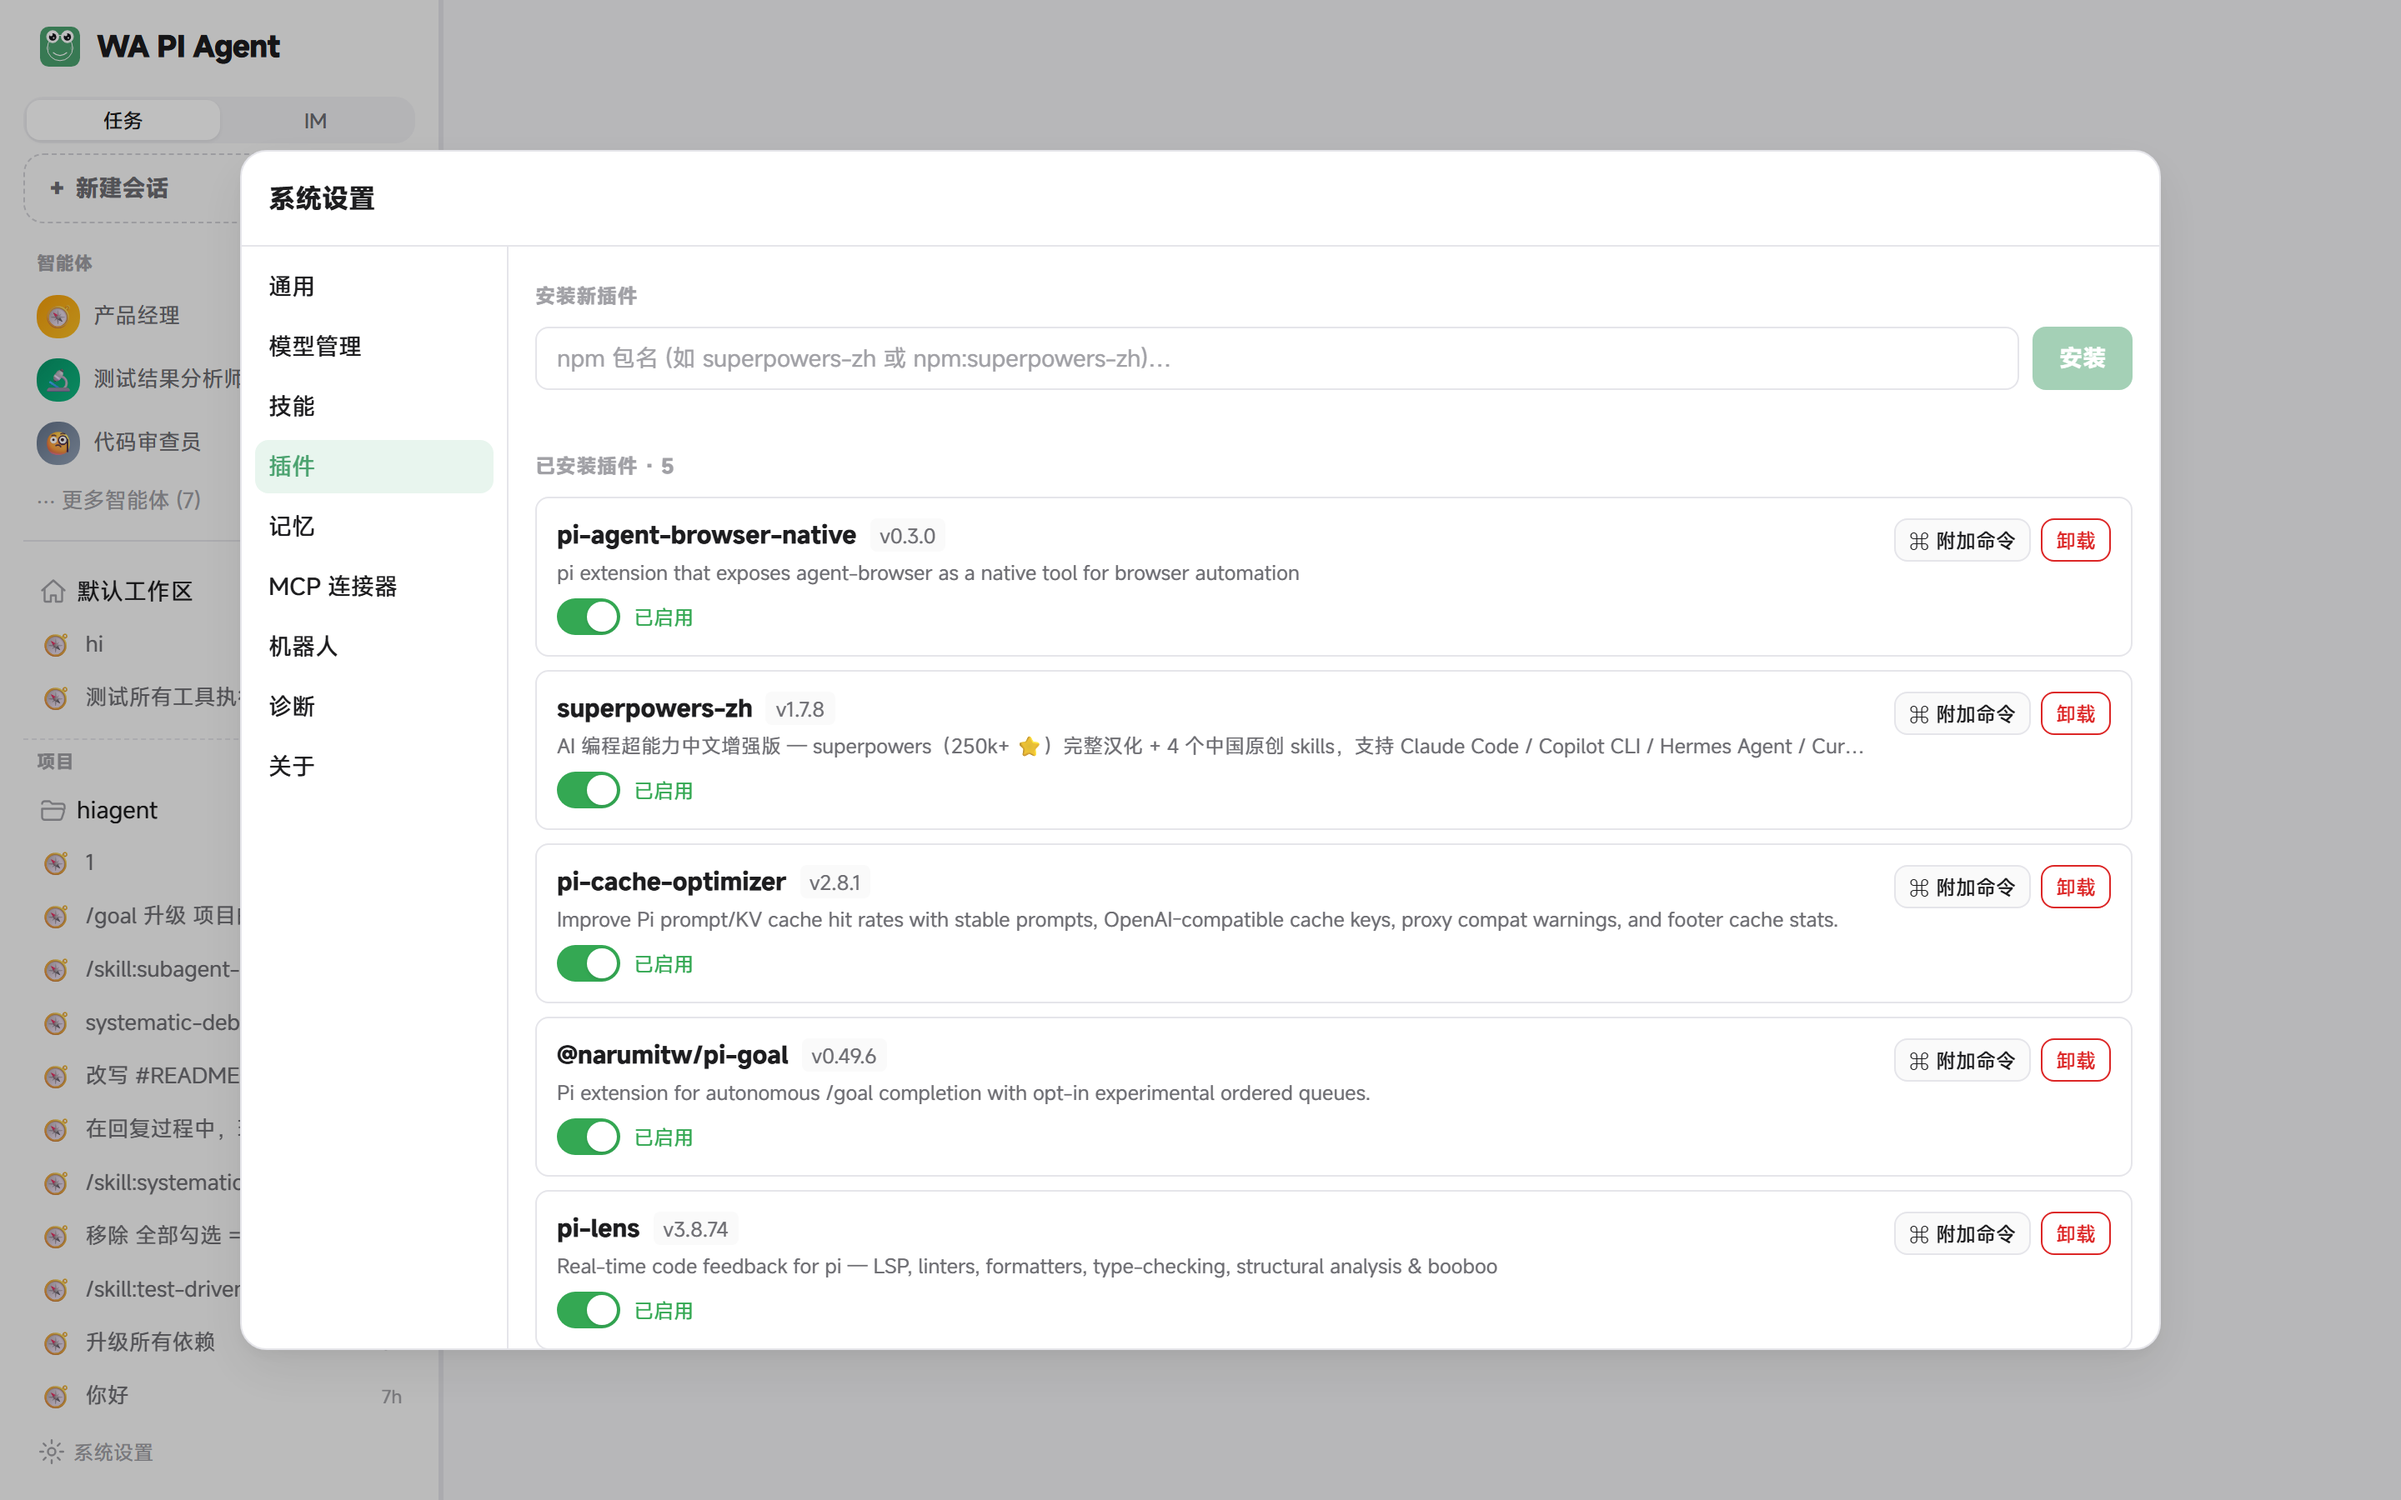
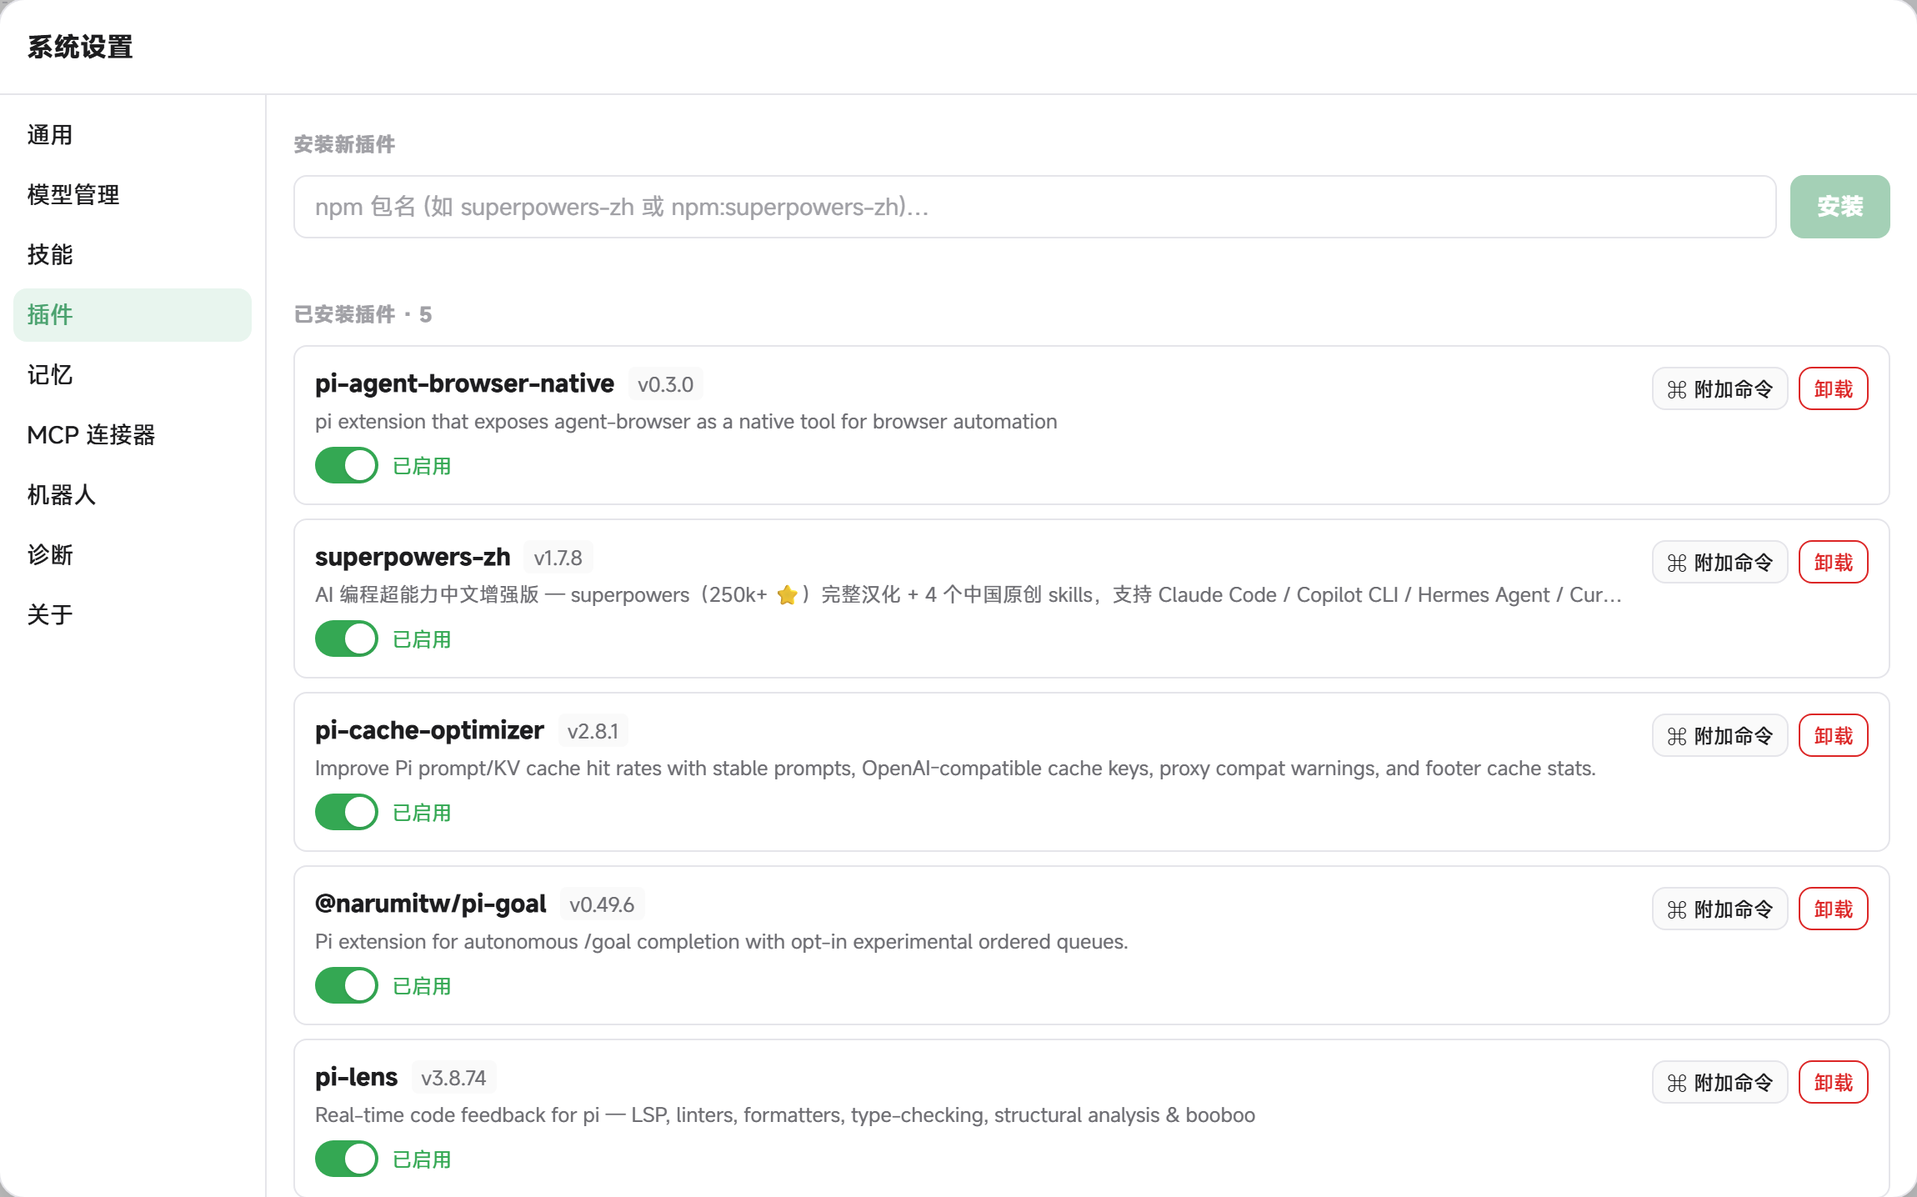
fix(docs,website): README 插件截图移除泄露的会话列表/项目名 + 官网补齐 TUI 插件兼容并发布
- docs/assets/readme/readme-extensions.png：原图是真实应用截图，左侧栏含本机会话标题列表与项目名 hiagent（公共仓库可见）；按像素探测设置对话框包围盒（290,182-2590,1618）裁切，2880x1800 -> 2300x1436，侧栏与窗口框架整体移除
- website/index.html / index.en.html：首屏 eyebrow 改品类句、信任行加 TUI 插件兼容、特性区新增 TUI 卡片、设置一览插件卡加 TUI 条目、meta description 同步；已 publish-web 发布到 www.wapiagent.top
- scripts/__tests__/website-tui-support.test.ts（新）：13 例先红后绿（改前 10 fail -> 改后 13 pass），含两条反向断言
- 不改应用代码；无行为变更

注：工作区另有 MessageList/TurnSummary/i18n 等改动来自其他会话，未纳入本次提交。

diff --git a/scripts/__tests__/website-tui-support.test.ts b/scripts/__tests__/website-tui-support.test.ts
@@ -1,0 +1,125 @@
+/**
+ * 官网双版「TUI 插件兼容与支持」落点测试。
+ *
+ * 与 README 的 readme-tui-support.test.ts 同口径：官网也要把 TUI 插件兼容讲到
+ * 首屏（eyebrow 品类句 + hero 信任行）与特性 / 设置区，并同步更新定位句
+ * （pi coding agent 的桌面 GUI 客户端，取代旧的「pi agent 图形化桌面框架」）。
+ * 先红后绿：先在当前（改造前）官网文件上跑，再改 website/index.html 与
+ * website/index.en.html 让全部用例通过。
+ */
+import { describe, expect, test } from "bun:test";
+import { readFileSync } from "node:fs";
+import { join } from "node:path";
+
+const root = join(import.meta.dir, "../..");
+const zh = readFileSync(join(root, "website/index.html"), "utf8");
+const en = readFileSync(join(root, "website/index.en.html"), "utf8");
+
+/** 取首屏 eyebrow 文案 */
+function eyebrow(doc: string): string {
+	return doc.match(/<span class="eyebrow"[\s\S]*?<\/span>/)?.[0] ?? "";
+}
+
+/** 取首屏信任行 */
+function heroTrust(doc: string): string {
+	return doc.match(/<div class="hero-trust">[\s\S]*?<\/div>/)?.[0] ?? "";
+}
+
+/** 取特性区正文（features 到 settings 之间） */
+function features(doc: string): string {
+	const start = doc.indexOf('id="features"');
+	const end = doc.indexOf('id="settings"');
+	return start === -1 || end === -1 ? "" : doc.slice(start, end);
+}
+
+/** 取页面 meta description */
+function metaDescription(doc: string): string {
+	return doc.match(/name="description"[\s\S]*?content="([^"]*)"/)?.[1] ?? "";
+}
+
+/** 取设置一览里「插件」卡片正文 */
+function pluginCard(doc: string, heading: string): string {
+	const start = doc.indexOf(`<h4><span class="ico">🧩</span>${heading}</h4>`);
+	if (start === -1) return "";
+	const end = doc.indexOf("</ul>", start);
+	return end === -1 ? "" : doc.slice(start, end);
+}
+
+describe("官网中文版 TUI 插件兼容落点", () => {
+	test("① 首屏 eyebrow 改用品类句（pi coding agent 的桌面 GUI 客户端）", () => {
+		expect(eyebrow(zh)).toContain("pi coding agent 的桌面 GUI 客户端");
+	});
+
+	test("② 首屏信任行含 TUI 插件兼容", () => {
+		expect(heroTrust(zh)).toContain("TUI 插件兼容");
+	});
+
+	test("③ 特性区含 TUI 插件开箱即用卡片", () => {
+		const f = features(zh);
+		expect(f).toContain("TUI 插件开箱即用");
+		expect(f).toContain("无需修改");
+	});
+
+	test("④ 设置一览「插件」卡含 TUI 插件兼容条目", () => {
+		const card = pluginCard(zh, "插件");
+		expect(card).toContain("TUI");
+		expect(card).toContain("无需修改");
+	});
+
+	test("⑤ 页面 meta description 更新为品类句并含 TUI 插件", () => {
+		const meta = metaDescription(zh);
+		expect(meta).toContain("pi coding agent 的桌面 GUI 客户端");
+		expect(meta).toContain("TUI 插件");
+	});
+});
+
+describe("官网英文版 TUI 插件兼容落点", () => {
+	test("① 首屏 eyebrow 改用品类句（desktop GUI client for the pi coding agent）", () => {
+		expect(eyebrow(en)).toContain("Desktop GUI client for the pi coding agent");
+	});
+
+	test("② 首屏信任行含 TUI plugin compatible", () => {
+		expect(heroTrust(en)).toContain("TUI plugin compatible");
+	});
+
+	test("③ 特性区含 TUI plugins work out of the box 卡片", () => {
+		const f = features(en);
+		expect(f).toContain("TUI plugins work out of the box");
+		expect(f).toContain("unchanged");
+	});
+
+	test("④ 设置一览「Plugins」卡含 TUI plugin compatible 条目", () => {
+		const card = pluginCard(en, "Plugins");
+		expect(card).toMatch(/TUI/);
+		expect(card).toContain("unchanged");
+	});
+
+	test("⑤ 页面 meta description 更新为品类句并含 TUI plugins", () => {
+		const meta = metaDescription(en);
+		expect(meta).toContain("desktop GUI client for the pi coding agent");
+		expect(meta).toContain("TUI plugins");
+	});
+});
+
+describe("官网双版一致性与不倒退（反向断言）", () => {
+	test("反向：不得残留旧定位句（图形化桌面框架 / Graphical desktop framework）", () => {
+		expect(zh).not.toContain("pi agent 图形化桌面框架");
+		expect(en).not.toContain("Graphical desktop framework for pi agent");
+	});
+
+	test("反向：不得把 TUI 插件写成不支持", () => {
+		for (const doc of [zh, en]) {
+			expect(doc).not.toContain("TUI 插件不支持");
+			expect(doc).not.toMatch(/TUI plugins? (?:are )?not supported/i);
+		}
+	});
+
+	test("双版首屏与特性/设置区落点数量一致", () => {
+		const hit = (doc: string, heading: string): number =>
+			[eyebrow(doc), heroTrust(doc), features(doc), pluginCard(doc, heading), metaDescription(doc)].filter(
+				(part) => /TUI/i.test(part),
+			).length;
+		expect(hit(zh, "插件")).toBe(4);
+		expect(hit(en, "Plugins")).toBe(4);
+	});
+});

diff --git a/website/index.html b/website/index.html
@@ -6,7 +6,7 @@
 		<title>WA PI Agent — 会呱呱叫的 AI 编程桌面助手</title>
 		<meta
 			name="description"
-			content="WA PI Agent：pi agent 引擎的图形化桌面框架。会话、模型、MCP、技能、记忆，一条命令都不用记，点点鼠标全搞定。任务完成时，还有一只青蛙跳出来道贺。"
+			content="WA PI Agent 是 pi coding agent 的桌面 GUI 客户端：会话、模型、MCP、技能、记忆一条命令都不用记，TUI 插件无需修改即可运行。任务完成时，还有一只青蛙跳出来道贺。"
 		/>
 		<link
 			rel="icon"
@@ -1028,7 +1028,7 @@
 			<span class="fly" style="left: 66%; top: 78%; animation-delay: 3.4s"></span>
 			<div class="hero-inner">
 				<div>
-					<span class="eyebrow">🐸 pi agent 图形化桌面框架 · 免费开源</span>
+					<span class="eyebrow">🐸 pi coding agent 的桌面 GUI 客户端 · 免费开源</span>
 					<h1>
 						会话、模型、MCP、技能<br />一条命令都<span class="hl">不用记</span>
 					</h1>
@@ -1055,6 +1055,7 @@
 					</div>
 					<div class="hero-trust">
 						<span>🛡 数据保存在本地</span>
+						<span>🧩 TUI 插件兼容</span>
 						<span>💻 Windows · macOS · Linux</span>
 						<span>🌐 中文 / English</span>
 					</div>
@@ -1547,6 +1548,11 @@
 						<p>stdio / HTTP 双传输，连接测试、查看工具清单，报错说人话不甩堆栈。</p>
 					</div>
 					<div class="mini-card reveal">
+						<div class="ico">🧩</div>
+						<h4>TUI 插件开箱即用</h4>
+						<p>为 pi 编写的扩展无需修改——状态栏 / Widget / 对话框 / 通知以 GUI 原生组件呈现。</p>
+					</div>
+					<div class="mini-card reveal">
 						<div class="ico">💲</div>
 						<h4>技能即打即用</h4>
 						<p>
@@ -1663,6 +1669,7 @@
 							<li>新版本徽章提示，一键升级</li>
 							<li>升级过程流式日志实时可见</li>
 							<li>附加命令逐项开关</li>
+							<li>TUI 插件兼容：为 pi 编写的扩展无需修改</li>
 							<li>安装 / 卸载 / 升级当前对话立即生效</li>
 						</ul>
 					</div>

diff --git a/website/index.en.html b/website/index.en.html
@@ -6,7 +6,7 @@
 		<title>WA PI Agent — The AI Coding Desktop Assistant That Ribbits</title>
 		<meta
 			name="description"
-			content="WA PI Agent: the graphical desktop framework for the pi agent engine. Sessions, models, MCP, skills, and memory — no commands to memorize. When a task finishes, a frog hops out to congratulate you."
+			content="WA PI Agent is a desktop GUI client for the pi coding agent: sessions, models, MCP, skills and memory with no commands to memorize, and TUI plugins that run unchanged. When a task finishes, a frog hops out to congratulate you."
 		/>
 		<link
 			rel="icon"
@@ -1029,7 +1029,7 @@
 			<div class="hero-inner">
 				<div>
 					<span class="eyebrow"
-						>🐸 Graphical desktop framework for pi agent · Free &amp; open
+						>🐸 Desktop GUI client for the pi coding agent · Free &amp; open
 						source</span
 					>
 					<h1>
@@ -1060,6 +1060,7 @@
 					</div>
 					<div class="hero-trust">
 						<span>🛡 Data stays on your machine</span>
+						<span>🧩 TUI plugin compatible</span>
 						<span>💻 Windows · macOS · Linux</span>
 						<span>🌐 中文 / English</span>
 					</div>
@@ -1558,6 +1559,11 @@
 						</p>
 					</div>
 					<div class="mini-card reveal">
+						<div class="ico">🧩</div>
+						<h4>TUI plugins work out of the box</h4>
+						<p>Extensions written for pi run unchanged — status bars, widgets, dialogs and notifications render as native GUI components.</p>
+					</div>
+					<div class="mini-card reveal">
 						<div class="ico">💲</div>
 						<h4>Skills at your fingertips</h4>
 						<p>
@@ -1685,6 +1691,7 @@
 							<li>Upgrade badges when new versions ship</li>
 							<li>Streaming logs during install / upgrade</li>
 							<li>Toggle extra slash commands item by item</li>
+							<li>TUI plugin compatible: extensions written for pi run unchanged</li>
 							<li>
 								Install / uninstall / upgrade takes effect in the current conversation
 							</li>

diff --git a/CHANGELOG.md b/CHANGELOG.md
@@ -6,6 +6,7 @@
 - test(kernel): tui-host 中文整串注入的第三层验证（只加测试、不改生产代码）——新增 `tests/tui-host-ime-text.test.ts` 4 例：Input/Editor 真实组件注入整串「你好世界」后 value/帧内为整串、光标列按 CJK 2 列宽计（2+8=10、非 UTF-16 码元数 6）、Editor 长中文串换行不破格（每行可见宽 ≤ 终端列）不劈字；`tests/tui-host-routes.integration.test.ts` 新增「输入链路：中文整串不被拆分」：真实 HTTP POST tui-input 后 host.ts 的 connectInputChannel 仅收到一个整串 key 事件。实跑：组件级 4 pass / 集成 15 pass，均 0 fail。
 - test(frontend,e2e): tui-host 输入法中文上屏的第四层真实浏览器验证（只加测试夹具与 E2E，不改生产代码）——`examples/tui-host-demo` 新增回显命令 `/tui-demo-echo`（把 handleInput 收到的 data 逐条渲染成帧行，回车结束）；`e2e/tui-panel.spec.ts` 新增「IME 中文上屏」用例：CDP `Input.imeSetComposition` + `Input.insertText` 在真实 Chromium 里走完整 composition 事件链（探针确认 start→update→input→…→end，且 textarea.value 落定为上屏文本），聚焦隐藏落点 textarea（`tui-panel-ime`）后断言 (a) 帧里回显「你好」、(b) 落点被清空无残值、(c) 页面发出携带「你好」的 POST `/api/extensions/tui-input`。先红后绿：负向对照（去掉 `imeSetComposition` 只留 `insertText` → 不触发 composition 事件）用例如期失败，恢复后全绿。实跑：`tui-panel.spec.ts` 5 pass（后续扩到 7 pass，含焦点常驻与原生拖选两条护栏）、前端单测/组件 86 pass、kernel 集成 19 pass，均 0 fail。
 - docs(readme): TUI 插件兼容与支持补齐到 README 双版 5 处高权重位置——首屏 tagline 区（新增「为 pi 编写的 TUI 插件无需修改，直接可用 —— 状态栏 / Widget / 对话框 / 通知以 GUI 原生组件呈现」句）、首段（What is this / 这是什么，补「TUI 插件兼容」限定）、特性摘要行（新增 `TUI plugin compatible` / `TUI 插件兼容`）、FAQ（新增「我已有的 pi 插件还能用吗」问答）、Why-a-GUI 对比表（新增「扩展在终端 TUI 里渲染 → 同一批 TUI 插件无需修改，以 GUI 原生组件呈现」行）。测试：新增 `scripts/__tests__/readme-tui-support.test.ts` 17 例**先红后绿**（改前 13 fail / 4 pass → 改后 17 pass / 0 fail），含中英双版逐处落点、双版落点数量一致，以及四条反向断言（不得写成「不支持 TUI」、不得说 TUI 插件必须改造 / 重写 / 适配、品类关键词句不得被 TUI 表述挤掉、插件生态小节原有 TUI bullet 不得丢失）；结构回归：标题集合与图片引用零变化、中英对比表行数 9/9、相对链接各 7 个全部存在。本次未改任何代码，无行为变更。
+- fix(docs,website): 移除 README 截图中泄露的本机会话内容 + 官网补齐 TUI 插件兼容——①`docs/assets/readme/readme-extensions.png` 原图是真实应用截图，左侧栏含本机会话标题列表与项目名「hiagent」（公共仓库可见，属隐私泄露）：裁切到设置对话框区域（2880×1800 → 2300×1436，按像素探测对话框包围盒 290,182–2590,1618），侧栏与窗口框架整体移除，只留「插件」面板；②官网 `website/index.html` / `website/index.en.html`：首屏 eyebrow 改品类句（pi coding agent 的桌面 GUI 客户端 / Desktop GUI client for the pi coding agent，取代旧「图形化桌面框架」）、信任行新增「TUI 插件兼容 / TUI plugin compatible」、特性区新增「TUI 插件开箱即用 / TUI plugins work out of the box」卡片、设置一览插件卡新增 TUI 条目、页面 meta description 同步；已执行 `scripts/publish-web.ts` 发布到 https://www.wapiagent.top（线上核验：双版 TUI 文案到位、旧定位句 0 残留）。测试：新增 `scripts/__tests__/website-tui-support.test.ts` 13 例**先红后绿**（改前 10 fail / 1 pass → 改后 13 pass / 0 fail；补 meta 断言时先红 3 fail → 绿），含中英双版落点、双版数量一致，以及两条反向断言（不得残留旧定位句、不得把 TUI 插件写成不支持）；与 `readme-tui-support.test.ts` 合跑 30 pass / 0 fail。未改应用代码，无行为变更。遗留：旧截图仍存在于 git 历史（引入于 f5a958a6、更新于 3eb8edba），彻底清除需重写历史并强推双远端。
 
 ## 2026-09-23
 
